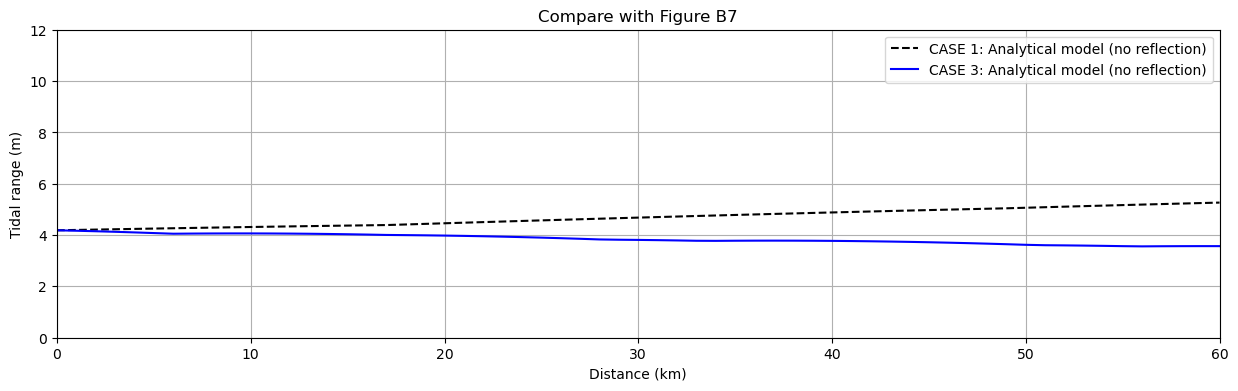
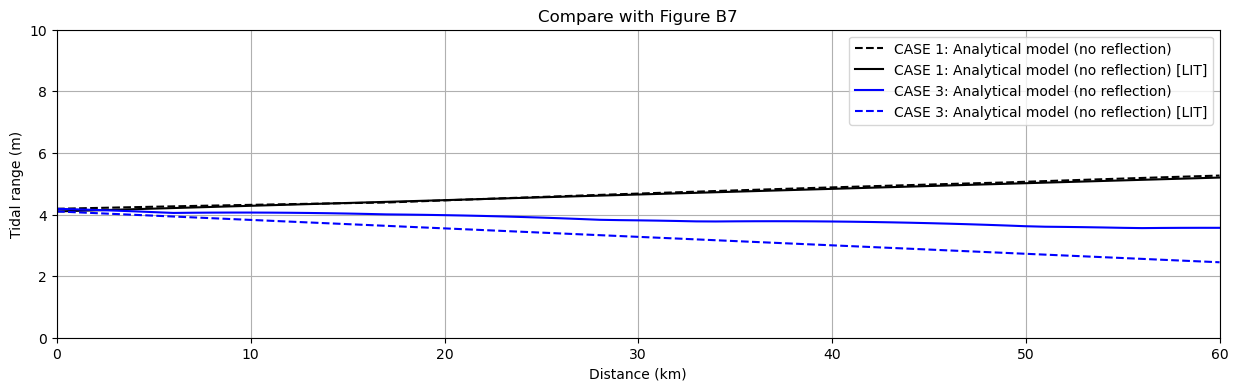
Update weekly log

diff --git a/WeeklyLogs/Log112424_120724.md b/WeeklyLogs/Log112424_120724.md
@@ -36,9 +36,7 @@ Figure 3: Water level amplitude and velocity amplitude along estuary, Scheldt Es
 - Case 3 does not, does not get down to paper's ~2.5m tidal range
 
 ![FigB7copy](../Figures/120524meeting/vanRijn2010FigB7_copy.png)<br>
-![FigB7](../Figures/120524meeting/vanRijn2010FigB7.png)<br>
 Figure 4: Computed tidal ranges for converging channel CASES 1 and 3 (L=60 km; h=10 and 5 m) based on analytical model.
-
 
 
 ## Issues:
@@ -46,3 +44,4 @@ Figure 4: Computed tidal ranges for converging channel CASES 1 and 3 (L=60 km; h
 - CASE 3 tidal range doesn't match paper's
 
 ## Next steps:
+- Try method on Chehalis (tried quickly, but had phase shift of 6 hours at Montesano)
